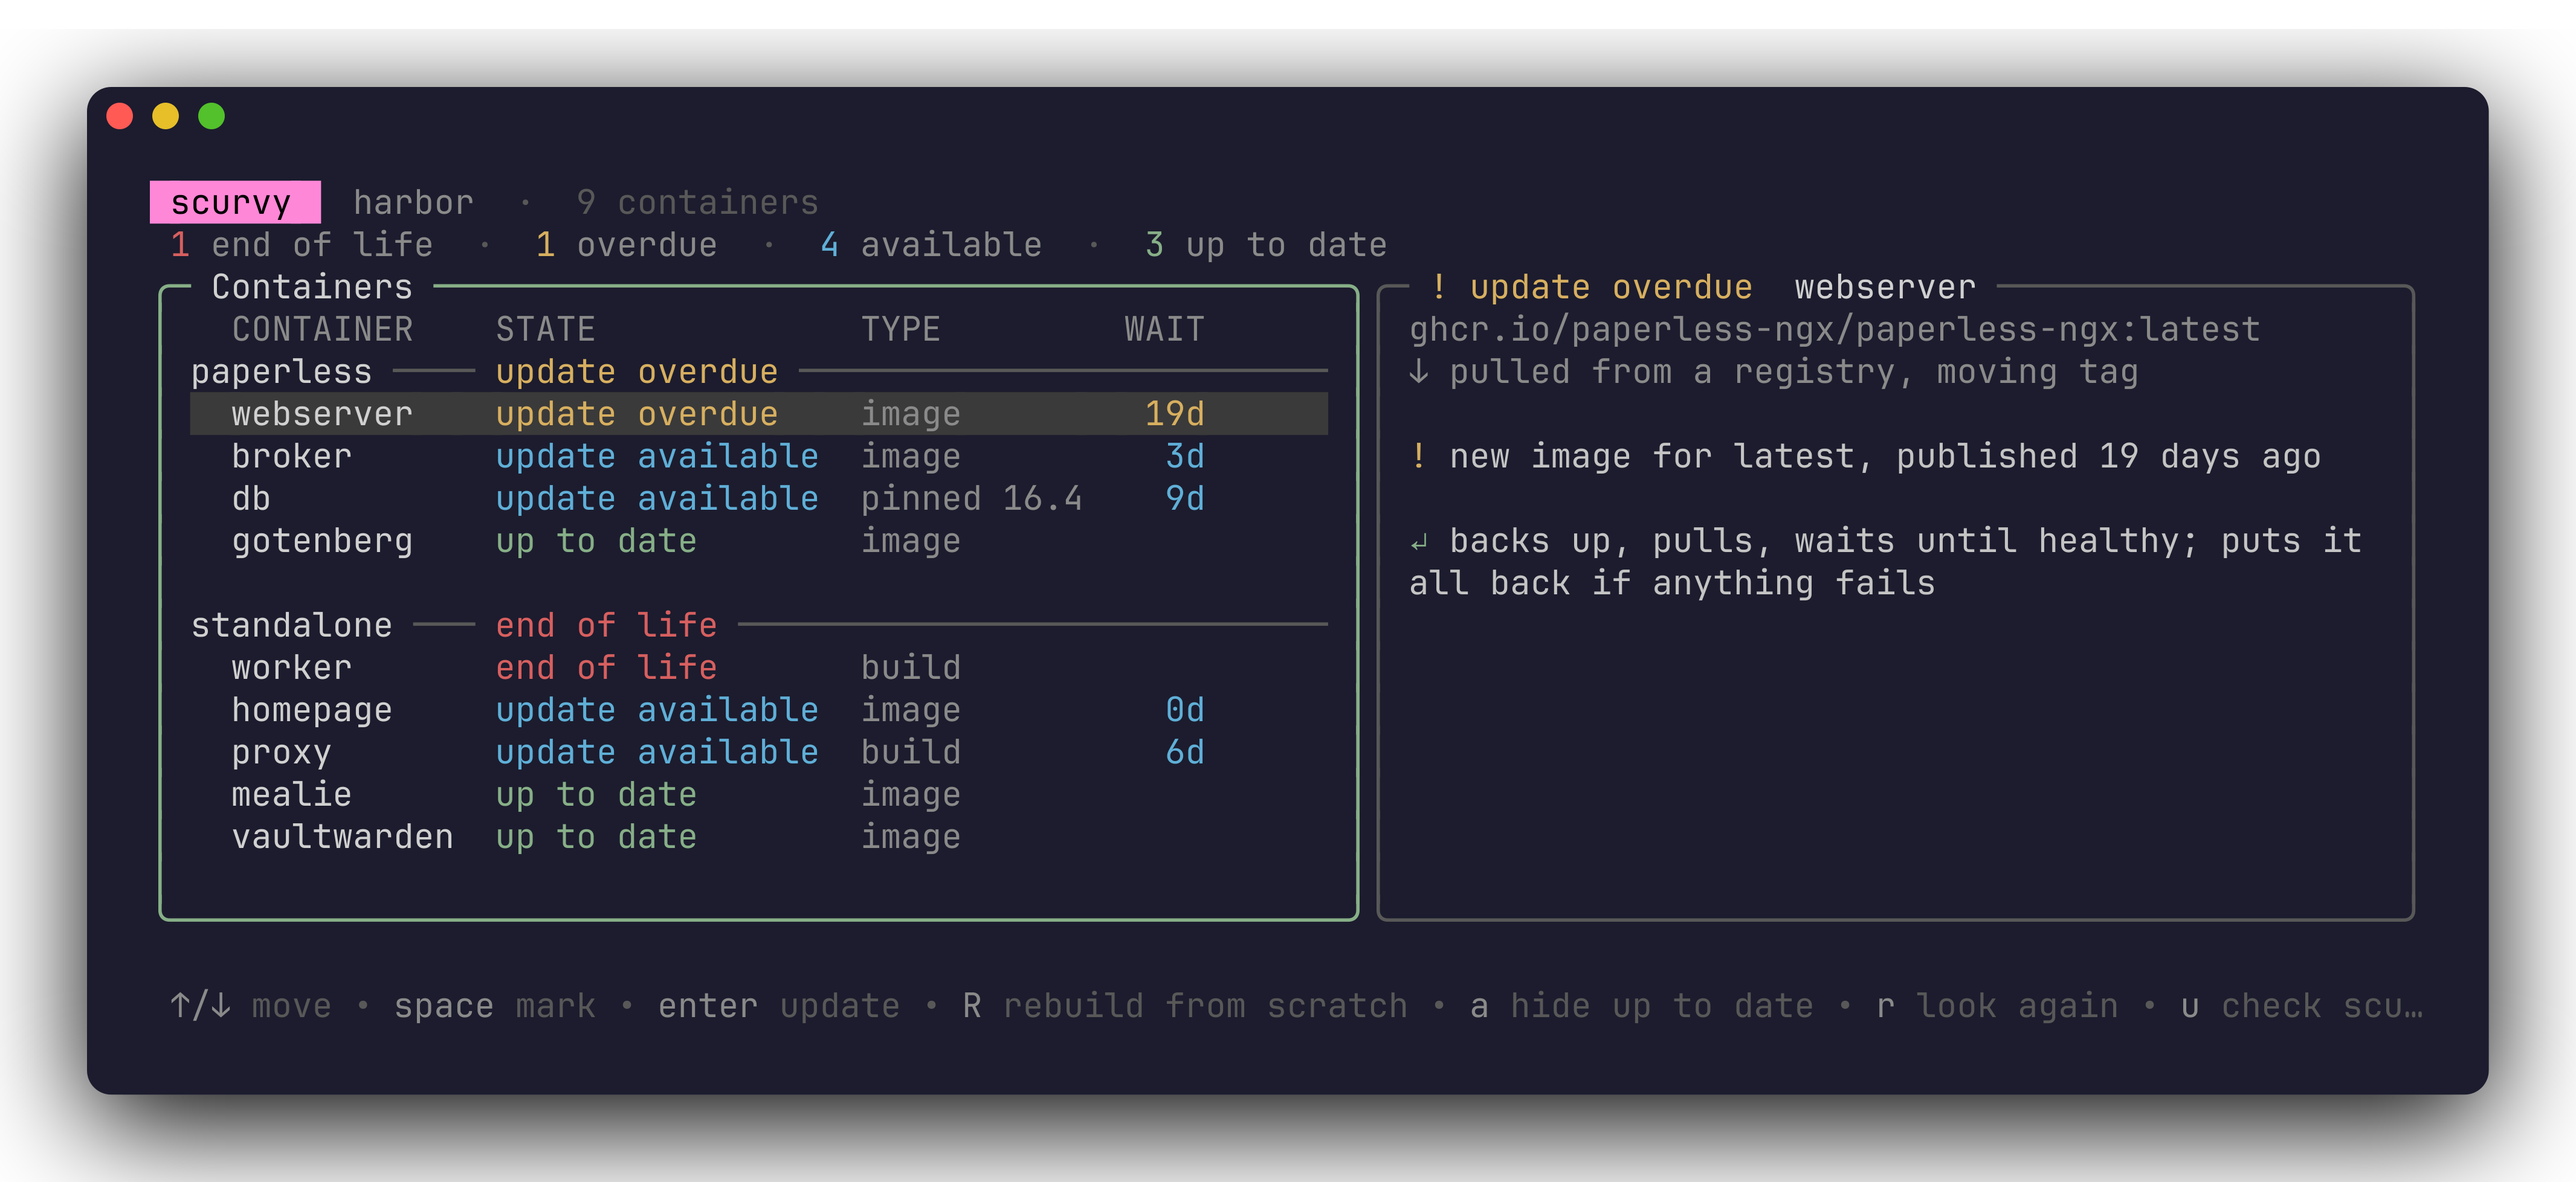
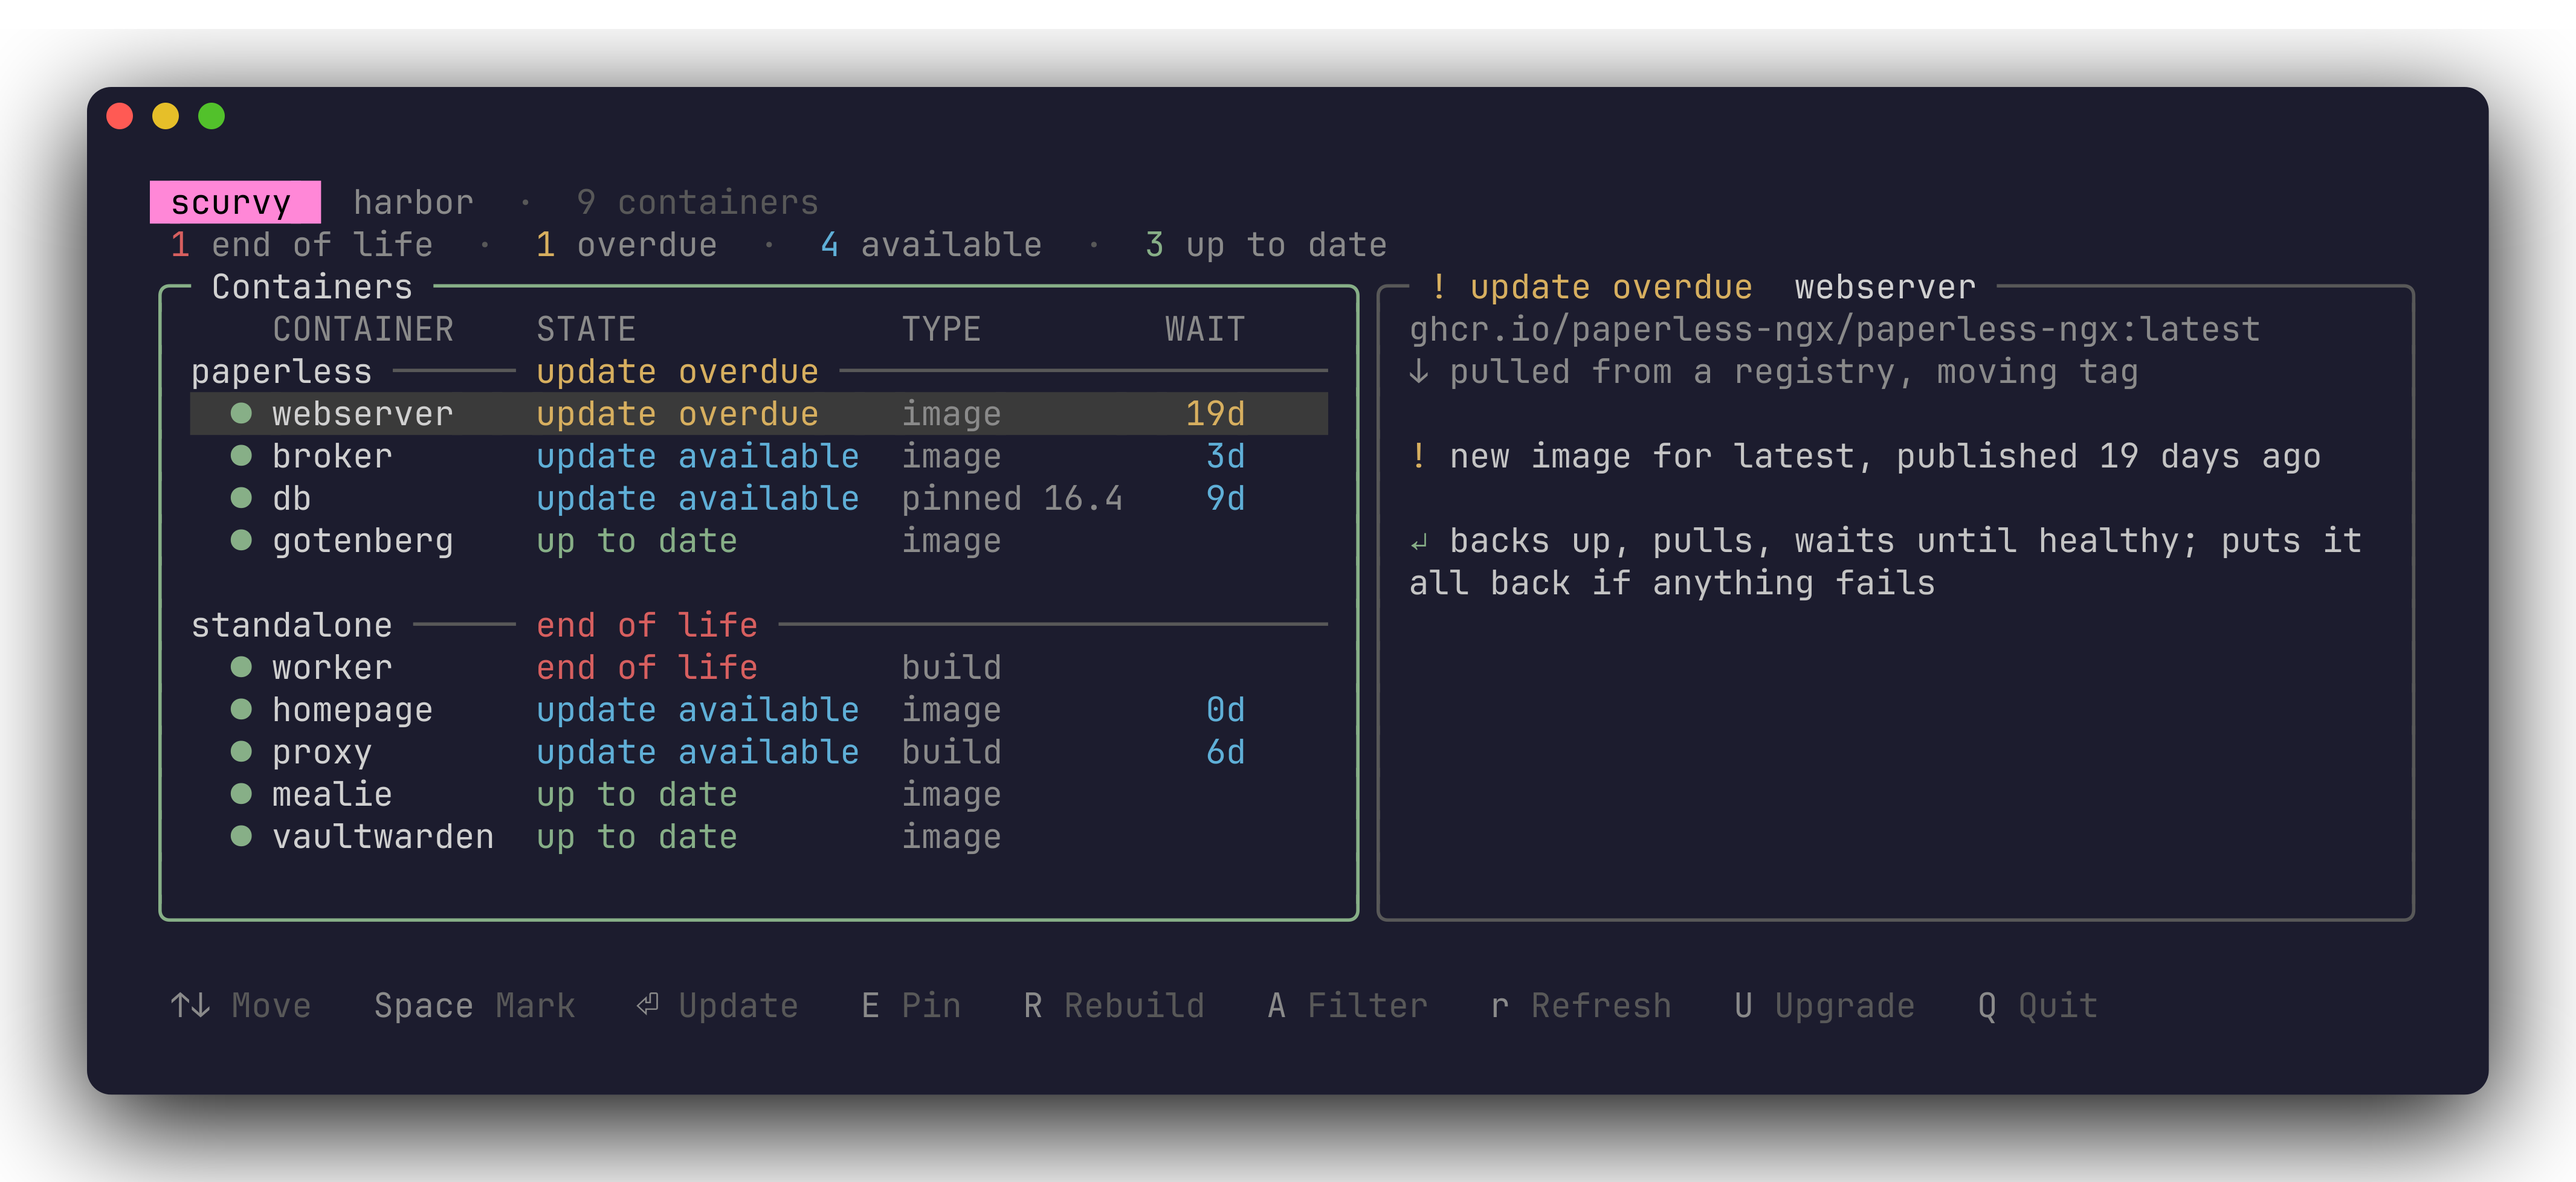
New: stopped containers show too, and a new major version is offered
Every container shows, with a dot before its name: green running, grey
stopped, red crashed or restarting. A stopped one is not updated, so an
update never starts what was meant to be off.

Versions compare across lengths (12.2 is newer than 10.11.11), so a new
major version is found; it shows as update available and Enter opens the
version choice instead of taking it. scurvy list --influx gains running.

diff --git a/internal/scan/version.go b/internal/scan/version.go
@@ -27,34 +27,51 @@ func numbers(tag string) []int {
 	return n
 }
 
-// less compares two versions of the same shape.
+// less compares two versions; missing parts count as 0 (12.2 is 12.2.0).
 func less(a, b []int) bool {
-	for i := range a {
-		if a[i] != b[i] {
-			return a[i] < b[i]
+	for i := 0; i < max(len(a), len(b)); i++ {
+		x, y := 0, 0
+		if i < len(a) {
+			x = a[i]
+		}
+		if i < len(b) {
+			y = b[i]
+		}
+		if x != y {
+			return x < y
 		}
 	}
 	return false
 }
 
-// newerTag finds, among tags, the newest version of the same shape as
-// cur (same number of parts, same v prefix) within cur's major version.
-// A new major is a decision of its own, not an update.
-func newerTag(tags []string, cur string) string {
-	c := numbers(cur)
+// versions are the plain version tags among tags, with cur's v prefix.
+func versions(tags []string, cur string) []string {
 	v := strings.HasPrefix(cur, "v")
-	var best []int
-	newest := ""
+	var out []string
 	for _, t := range tags {
-		if !pinned(t) || strings.HasPrefix(t, "v") != v {
-			continue
-		}
-		n := numbers(t)
-		if len(n) == len(c) && n[0] == c[0] && less(c, n) && (best == nil || less(best, n)) {
-			best, newest = n, t
+		if pinned(t) && strings.HasPrefix(t, "v") == v {
+			out = append(out, t)
 		}
 	}
-	return newest
+	return out
+}
+
+// newerTag finds the newest version newer than cur within cur's major
+// version, and the newest of a later major: that one is a decision of its
+// own, offered but never taken by itself.
+func newerTag(tags []string, cur string) (minor, major string) {
+	c := numbers(cur)
+	for _, t := range versions(tags, cur) {
+		n := numbers(t)
+		switch {
+		case !less(c, n):
+		case n[0] == c[0] && (minor == "" || less(numbers(minor), n)):
+			minor = t
+		case n[0] > c[0] && (major == "" || less(numbers(major), n)):
+			major = t
+		}
+	}
+	return minor, major
 }
 
 // majorOf is the start every newer version of the same major shares:
@@ -72,21 +89,27 @@ func majorOf(tag string) string {
 	return p
 }
 
-// Versions lists the versions an image could be pinned to: the tags of
-// the same shape as its own (10.11.11: three numbers), newest first.
+// Versions lists the versions an image could be pinned to, newest first:
+// those of its own major, and the newest ones of every other.
 func Versions(ctx context.Context, image string) ([]string, error) {
 	ref := registry.Parse(image)
 	if !pinned(ref.Tag) {
 		return nil, fmt.Errorf("%s is not pinned to a version", image)
 	}
-	tags, err := registry.New().Tags(ctx, ref, "")
+	reg := registry.New()
+	same, err := reg.Tags(ctx, ref, majorOf(ref.Tag))
 	if err != nil {
 		return nil, err
 	}
-	c, v := numbers(ref.Tag), strings.HasPrefix(ref.Tag, "v")
+	recent, err := reg.RecentTags(ctx, ref)
+	if err != nil {
+		return nil, err
+	}
+	seen := map[string]bool{}
 	var out []string
-	for _, t := range tags {
-		if pinned(t) && strings.HasPrefix(t, "v") == v && len(numbers(t)) == len(c) {
+	for _, t := range versions(append(same, recent...), ref.Tag) {
+		if !seen[t] {
+			seen[t] = true
 			out = append(out, t)
 		}
 	}

diff --git a/internal/tui/view.go b/internal/tui/view.go
@@ -277,13 +277,13 @@ func (m *Model) columns(rows []row, inner int) cols {
 			c.kind = max(c.kind, min(lipgloss.Width(kindWord(r.items[0])), 18))
 		}
 	}
-	c.name = min(c.name, max(8, inner-2-c.state-c.kind-waitW-6))
+	c.name = min(c.name, max(8, inner-4-c.state-c.kind-waitW-6))
 	return c
 }
 
 // header names the columns, as k9s and docker ps do.
 func (c cols) header(inner int) string {
-	h := "  " + fit("CONTAINER", c.name) + "  " + fit("STATE", c.state) + "  " + fit("TYPE", c.kind) + "  " + fmt.Sprintf("%*s", waitW, "WAIT")
+	h := "    " + fit("CONTAINER", c.name) + "  " + fit("STATE", c.state) + "  " + fit("TYPE", c.kind) + "  " + fmt.Sprintf("%*s", waitW, "WAIT")
 	return lipgloss.NewStyle().Foreground(cDim).Bold(true).Render(fit(h, inner))
 }
 
@@ -325,7 +325,7 @@ func (m *Model) line(r row, picked bool, c cols, inner int) string {
 			}
 		}
 		head := on(sBold).Render(title)
-		rule := on(sFaint).Render(" " + strings.Repeat("─", max(1, c.name+2-lipgloss.Width(head))) + " ")
+		rule := on(sFaint).Render(" " + strings.Repeat("─", max(1, c.name+4-lipgloss.Width(head))) + " ")
 		line := head + rule + on(worst.style()).Render(worst.word) + on(sFaint).Render(" ")
 		return line + on(sFaint).Render(strings.Repeat("─", max(0, inner-lipgloss.Width(line))))
 	}
@@ -336,11 +336,18 @@ func (m *Model) line(r row, picked bool, c cols, inner int) string {
 		waiting = fmt.Sprintf("%dd", int(time.Since(f.Since).Hours()/24))
 	}
 	gap := on(lipgloss.NewStyle()).Render("  ")
+	dot := on(lipgloss.NewStyle().Foreground(cCurrent)).Render("● ")
+	switch {
+	case it.Container.Failed:
+		dot = on(lipgloss.NewStyle().Foreground(cEOL)).Render("● ")
+	case !it.Up():
+		dot = on(sFaint).Render("○ ")
+	}
 	mark := on(lipgloss.NewStyle()).Render("  ")
 	if m.marked[it.Container.ID] {
 		mark = on(lipgloss.NewStyle().Foreground(cActive).Bold(true)).Render("* ")
 	}
-	line := mark + cellOn(on(sText).Render(short(it, r.group)), c.name, on) + gap +
+	line := mark + dot + cellOn(on(sText).Render(short(it, r.group)), c.name, on) + gap +
 		cellOn(on(st.style()).Render(st.word), c.state, on) + gap +
 		cellOn(on(sDim).Render(kindWord(it)), c.kind, on) + gap +
 		on(st.style()).Render(fmt.Sprintf("%*s", waitW, waiting))

diff --git a/internal/docker/docker.go b/internal/docker/docker.go
@@ -32,6 +32,8 @@ type Container struct {
 	Image   string // the image as configured, e.g. ghcr.io/acme/web:latest
 	ImageID string // the image it actually runs
 	Labels  map[string]string
+	State   string // running, exited, restarting, created, paused, dead
+	Failed  bool   // stopped with an error, or restarting over and over
 }
 
 // Project and Service of the compose project that started it; empty for
@@ -81,9 +83,9 @@ func firstLine(s string) string {
 	return s
 }
 
-// Running lists the running containers.
-func Running(ctx context.Context) ([]Container, error) {
-	out, err := run(ctx, "", "ps", "-q", "--no-trunc")
+// All lists the containers, running or not.
+func All(ctx context.Context) ([]Container, error) {
+	out, err := run(ctx, "", "ps", "-a", "-q", "--no-trunc")
 	if err != nil {
 		return nil, err
 	}
@@ -103,6 +105,10 @@ func Running(ctx context.Context) ([]Container, error) {
 			Image  string
 			Labels map[string]string
 		}
+		State struct {
+			Status   string
+			ExitCode int
+		}
 	}
 	if err := json.Unmarshal(out, &raw); err != nil {
 		return nil, err
@@ -115,6 +121,8 @@ func Running(ctx context.Context) ([]Container, error) {
 			Image:   r.Config.Image,
 			ImageID: r.Image,
 			Labels:  r.Config.Labels,
+			State:   r.State.Status,
+			Failed:  r.State.Status == "restarting" || r.State.Status == "dead" || r.State.Status == "exited" && r.State.ExitCode != 0,
 		})
 	}
 	return cs, nil

diff --git a/internal/scan/scan.go b/internal/scan/scan.go
@@ -35,10 +35,10 @@ type scanner struct {
 	now    time.Time
 }
 
-// Scan checks every running container. progress, if set, hears how many
+// Scan checks every container, running or not. progress, if set, hears how many
 // of how many are done.
 func Scan(ctx context.Context, progress func(done, total int)) ([]Item, error) {
-	cs, err := docker.Running(ctx)
+	cs, err := docker.All(ctx)
 	if err != nil {
 		return nil, err
 	}
@@ -200,7 +200,16 @@ func (s *scanner) pulled(ctx context.Context, it *Item) {
 		it.fail("versions", err)
 		return
 	}
-	newer := newerTag(tags, target.Tag)
+	recent, err := s.reg.RecentTags(ctx, target)
+	if err != nil {
+		it.fail("versions", err)
+	}
+	newer, major := newerTag(append(tags, recent...), target.Tag)
+	if major != "" {
+		released, _ := s.reg.Created(ctx, target, major)
+		it.Major = major
+		it.add(Update, released, "new major "+major, "a new major version %s is out, %s; e pins to it", major, s.ago(released, "released"))
+	}
 	if newer == "" {
 		return
 	}
@@ -305,7 +314,7 @@ func (s *scanner) baseVersion(ctx context.Context, it *Item, file string, b base
 		it.fail("versions", err)
 		return
 	}
-	newer := newerTag(tags, ref.Tag)
+	newer, _ := newerTag(tags, ref.Tag)
 	if newer == "" {
 		return
 	}

diff --git a/internal/scan/item.go b/internal/scan/item.go
@@ -67,6 +67,7 @@ type Item struct {
 	Edits []Edit // exact lines to change before updating: a raised version
 	Pull  string // a build context that is a git clone behind its upstream
 	Hook  string // the stack's own update script, if any
+	Major string // a later major version of a pinned image: offered, never taken by itself
 }
 
 // Finding is one thing found, with its weight.
@@ -85,11 +86,15 @@ func (it Item) Name() string {
 	return it.Container.Name
 }
 
-// Updatable reports whether Enter can update it: compose knows how, and no
-// digest pins it.
+// Updatable reports whether Enter can update it: it runs, compose knows
+// how, and no digest pins it.
 func (it Item) Updatable() bool {
-	return it.Kind != Loose && it.Project.Name != "" && registry.Parse(it.Image).Digest == ""
+	return it.Kind != Loose && it.Project.Name != "" && registry.Parse(it.Image).Digest == "" && it.Up()
 }
+
+// Up reports whether the container runs; a stopped one is shown, not
+// updated, so an update never starts what was meant to be off.
+func (it Item) Up() bool { return it.Container.State == "" || it.Container.State == "running" }
 
 // Unchecked reports a container nothing could be found about, because a
 // check failed.

diff --git a/internal/scan/scan_test.go b/internal/scan/scan_test.go
@@ -12,15 +12,18 @@ import (
 )
 
 func TestNewerTag(t *testing.T) {
-	tags := []string{"10.11.11", "10.11.12", "10.12.0", "11.0.0", "10.12.0-rc1", "latest", "2025111705", "v10.13.0", "10.11"}
-	if got := newerTag(tags, "10.11.11"); got != "10.12.0" {
-		t.Errorf("got %q", got)
+	tags := []string{"10.11.11", "10.11.12", "10.12.0", "11.0.0", "12.2", "10.12.0-rc1", "latest", "2025111705", "v10.13.0", "10.11"}
+	if minor, major := newerTag(tags, "10.11.11"); minor != "10.12.0" || major != "12.2" {
+		t.Errorf("got %q %q", minor, major)
 	}
-	if got := newerTag(tags, "10.12.0"); got != "" {
-		t.Errorf("nothing newer in 10.x, got %q", got)
+	if minor, _ := newerTag(tags, "10.12.0"); minor != "" {
+		t.Errorf("nothing newer in 10.x, got %q", minor)
 	}
-	if got := newerTag([]string{"3.19", "3.24", "3.9", "3.24.1"}, "3.19"); got != "3.24" {
-		t.Errorf("alpine: got %q", got)
+	if minor, _ := newerTag([]string{"3.19", "3.24", "3.9", "3.24.1"}, "3.19"); minor != "3.24.1" {
+		t.Errorf("alpine: got %q", minor)
+	}
+	if !less(numbers("12.2"), numbers("12.2.1")) || less(numbers("12.2"), numbers("12.2.0")) {
+		t.Error("12.2 is 12.2.0")
 	}
 }
 

diff --git a/main.go b/main.go
@@ -127,7 +127,7 @@ func state(it scan.Item) string {
 
 // lineProtocol is one InfluxDB line per container, for Telegraf's exec
 // input: tags stack, container, type; fields state, level (0 up to date …
-// 3 end of life, -1 not checked) and waiting_days.
+// 3 end of life, -1 not checked), waiting_days and running (1 or 0).
 func lineProtocol(items []scan.Item) string {
 	tag := strings.NewReplacer(",", `\,`, " ", `\ `, "=", `\=`)
 	var b strings.Builder
@@ -144,8 +144,12 @@ func lineProtocol(items []scan.Item) string {
 		if stack == "" {
 			stack = "-"
 		}
-		fmt.Fprintf(&b, "scurvy,stack=%s,container=%s,type=%s state=%q,level=%di,waiting_days=%di\n",
-			tag.Replace(stack), tag.Replace(it.Name()), tag.Replace(it.Source()), state(it), level, waiting)
+		running := 0
+		if it.Up() {
+			running = 1
+		}
+		fmt.Fprintf(&b, "scurvy,stack=%s,container=%s,type=%s state=%q,level=%di,waiting_days=%di,running=%di\n",
+			tag.Replace(stack), tag.Replace(it.Name()), tag.Replace(it.Source()), state(it), level, waiting, running)
 	}
 	return b.String()
 }

diff --git a/internal/registry/registry.go b/internal/registry/registry.go
@@ -567,3 +567,29 @@ func (c *Client) hubGet(ctx context.Context, u string, v any) error {
 	}
 	return json.NewDecoder(io.LimitReader(resp.Body, 8<<20)).Decode(v)
 }
+
+// RecentTags lists the tags pushed last: on Docker Hub the newest hundred,
+// elsewhere all of them. Enough to see a new major version.
+func (c *Client) RecentTags(ctx context.Context, r Ref) ([]string, error) {
+	ns, name, ok := hubRepo(r)
+	if !ok {
+		return c.Tags(ctx, r, "")
+	}
+	v, err := c.remember("hubrecent "+r.Repo, func() (any, error) {
+		var list struct {
+			Results []struct {
+				Name string `json:"name"`
+			} `json:"results"`
+		}
+		if err := c.hubGet(ctx, hubAPI+ns+"/repositories/"+name+"/tags?page_size=100&ordering=last_updated", &list); err != nil {
+			return nil, err
+		}
+		var out []string
+		for _, t := range list.Results {
+			out = append(out, t.Name)
+		}
+		return out, nil
+	})
+	tags, _ := v.([]string)
+	return tags, err
+}

diff --git a/internal/tui/tui.go b/internal/tui/tui.go
@@ -388,6 +388,10 @@ func (m *Model) key(k string) tea.Cmd {
 		}
 	case "enter", "R":
 		todo, _ := m.todo()
+		// A new major is a decision: Enter on it opens the version choice.
+		if len(todo) == 1 && len(m.marked) == 0 && todo[0].Major != "" && len(todo[0].Edits) == 0 && k == "enter" {
+			return m.key("e")
+		}
 		switch {
 		case m.scanning:
 		case m.updating, m.installing:
@@ -547,6 +551,9 @@ func whyNot(r row, ok bool) string {
 		return "nothing to update here"
 	}
 	it := r.items[0]
+	if !it.Up() {
+		return name(r) + ": it is " + it.Container.State + "; scurvy does not start it"
+	}
 	switch it.Source() {
 	case "external":
 		return name(r) + ": started by " + it.Project.Name + ", not from a compose file here; update it where it was started"

diff --git a/internal/fix/fix.go b/internal/fix/fix.go
@@ -105,6 +105,8 @@ func Plans(todo, all []scan.Item, noCache bool) (plans []Plan, refused []string)
 
 func whyNot(it scan.Item) string {
 	switch {
+	case !it.Up():
+		return "it is " + it.Container.State + ": start it first"
 	case it.Kind == scan.Loose && it.Project.Name != "":
 		return "started by " + it.Project.Name + ", not from a compose file here"
 	case it.Kind == scan.Loose:

diff --git a/README.md b/README.md
@@ -63,7 +63,7 @@ For Grafana, let Telegraf ask every few hours; each run asks the registries:
   data_format = "influx"
 ```
 
-Each container becomes a point `scurvy,stack=…,container=…,type=…` with `state`, `level` (0 up to date, 1 available, 2 overdue, 3 end of life, -1 not checked) and `waiting_days`.
+Each container becomes a point `scurvy,stack=…,container=…,type=…` with `state`, `level` (0 up to date, 1 available, 2 overdue, 3 end of life, -1 not checked), `waiting_days` and `running` (1 or 0).
 
 ## Development
 
